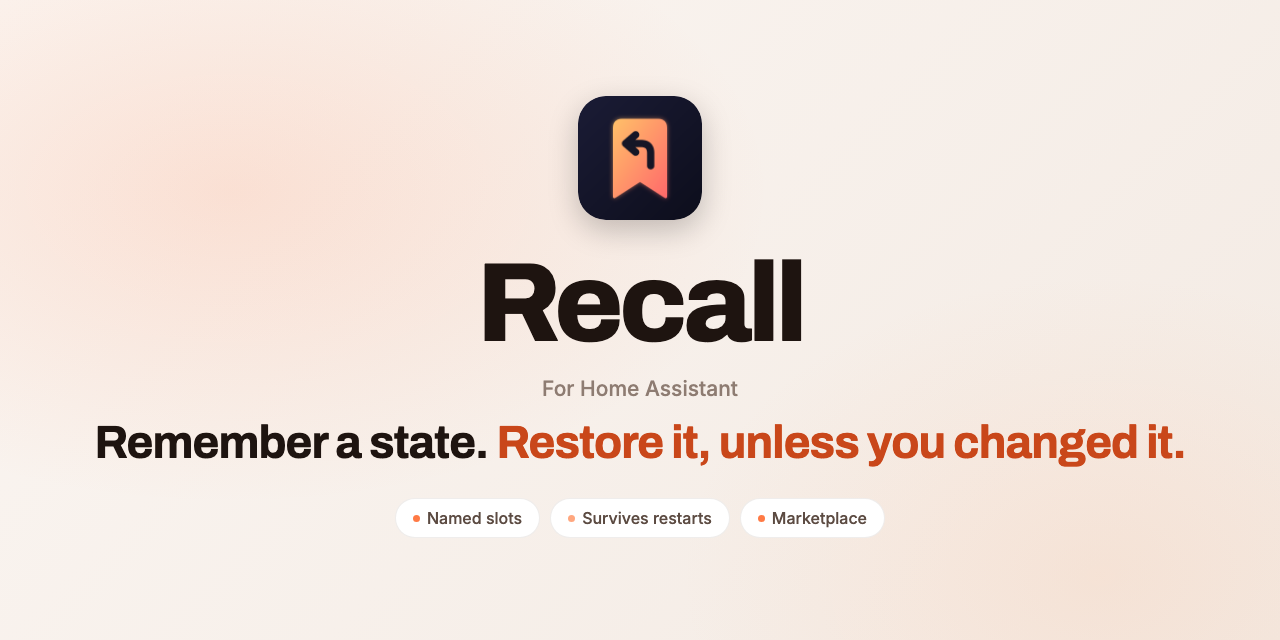
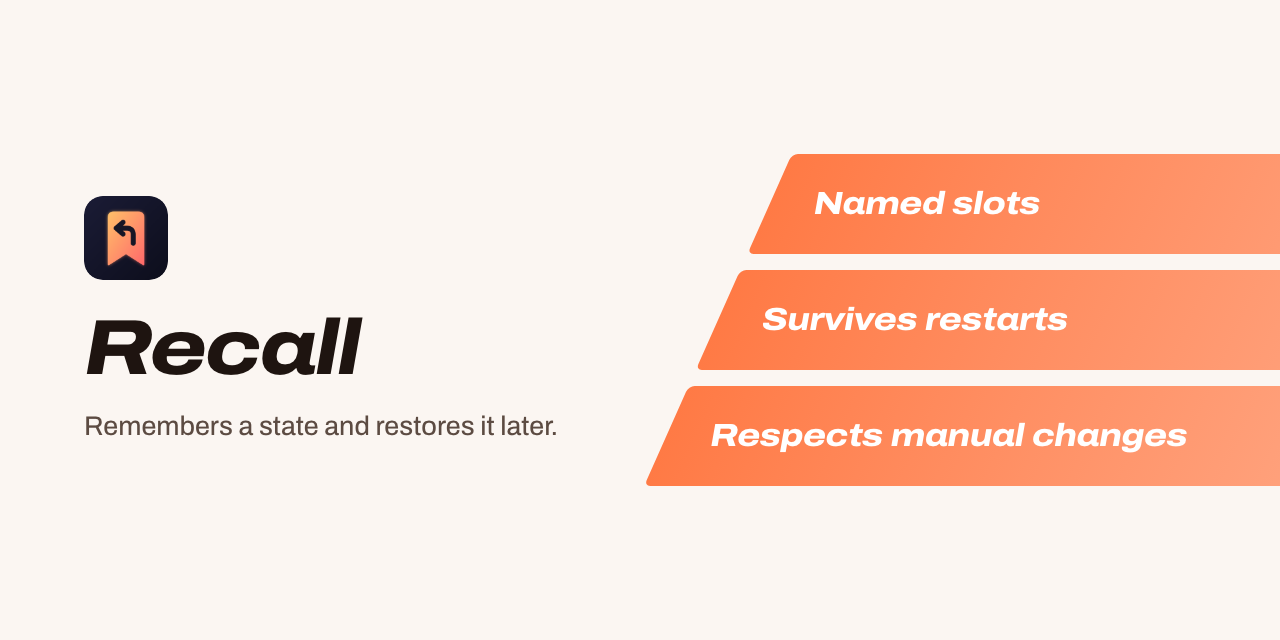
README and project page in the v2 design
Title banner with the lanes, Install and Set up as one Get started, shared
footer. The page loads theme v2 (Archivo from sh1ft-w.github.io), hero left
with the three key facts on the lanes.

Claude-Session: https://claude.ai/code/session_01TLmTtZLAvnS1BJ3w9tzxXq

diff --git a/docs/index.html b/docs/index.html
@@ -13,21 +13,18 @@
 <meta property="og:description" content="Remember a state, restore it later, unless someone changed it by hand.">
 <meta property="og:image" content="https://sh1ft-w.github.io/recall/images/readme-title-social.png">
 <link rel="icon" href="logo.png">
-<link rel="preconnect" href="https://fonts.googleapis.com">
-<link rel="preconnect" href="https://fonts.gstatic.com" crossorigin>
-<link href="https://fonts.googleapis.com/css2?family=Archivo:wght@600;700;800;900&family=Inter:wght@400;500;600&family=JetBrains+Mono:wght@400;500&display=swap" rel="stylesheet">
-<!-- Shared SH1FT-W design (tokens, glass navigation, light/dark, DE/EN, reveal) -->
-<link rel="stylesheet" href="https://sh1ft-w.github.io/theme/v1/theme.css">
-<script src="https://sh1ft-w.github.io/theme/v1/theme.js"></script>
+<!-- Shared SH1FT-W design, version 2 (tokens, Archivo, navigation, light/dark, DE/EN, the lanes) -->
+<link rel="stylesheet" href="https://sh1ft-w.github.io/theme/v2/theme.css">
+<script src="https://sh1ft-w.github.io/theme/v2/theme.js"></script>
 <style>
 /* Recall-Palette: warmes Weiß bei Tag, tiefes Braun bei Nacht, Akzent #FF7A45 */
 :root {
   --accent: #FF7A45; --accent-ink: #C9471A; --on-accent: #ffffff;
-  --sea: #FF7A45; --sea-tint: rgba(255,122,69,0.10); --sea-glow: rgba(255,122,69,0.30); --aqua: #FFA77F;
+  --sea: #FF7A45; --sea-tint: rgba(255,122,69,0.10); --aqua: #FFA77F;
   --ch-w: #8FA3B1; --ch-b: #2F7FD8; --ch-g: #2FA36A; --ch-r: #E0584A;
-  --font: "Inter", -apple-system, BlinkMacSystemFont, system-ui, sans-serif;
-  --display: "Archivo", "Inter", -apple-system, BlinkMacSystemFont, system-ui, sans-serif;
-  --mono: "JetBrains Mono", ui-monospace, "SF Mono", Menlo, monospace;
+  --font: "Archivo", -apple-system, BlinkMacSystemFont, system-ui, sans-serif;
+  --display: "Archivo", -apple-system, BlinkMacSystemFont, system-ui, sans-serif;
+  --mono: ui-monospace, "SF Mono", Menlo, monospace;
   --bg: #FBF6F2; --bg-2: #F3E8E0; --card: #FFFFFF; --card-2: #F8F0EA;
   --ink: #1E1410; --ink-2: #5C4B42; --ink-3: rgba(30,20,16,0.56);
   --line: rgba(50,25,15,0.11); --chip: rgba(50,25,15,0.06);
@@ -38,7 +35,7 @@
 }
 @media (prefers-color-scheme: dark) { :root:not([data-theme="light"]) {
   --accent: #FF7A45; --accent-ink: #FF9668; --on-accent: #ffffff;
-  --sea: #FF7A45; --sea-tint: rgba(255,122,69,0.14); --sea-glow: rgba(255,122,69,0.30);
+  --sea: #FF7A45; --sea-tint: rgba(255,122,69,0.14);
   --ch-w: #DCE6EC;
   --bg: #0C0907; --bg-2: #17110E; --card: #1E1612; --card-2: #271D18;
   --ink: #F6EFEA; --ink-2: rgba(228,214,205,0.84); --ink-3: rgba(228,214,205,0.54);
@@ -48,7 +45,7 @@
 } }
 :root[data-theme="dark"] {
   --accent: #FF7A45; --accent-ink: #FF9668; --on-accent: #ffffff;
-  --sea: #FF7A45; --sea-tint: rgba(255,122,69,0.14); --sea-glow: rgba(255,122,69,0.30);
+  --sea: #FF7A45; --sea-tint: rgba(255,122,69,0.14);
   --ch-w: #DCE6EC;
   --bg: #0C0907; --bg-2: #17110E; --card: #1E1612; --card-2: #271D18;
   --ink: #F6EFEA; --ink-2: rgba(228,214,205,0.84); --ink-3: rgba(228,214,205,0.54);
@@ -74,7 +71,7 @@ code, .k { font-family: var(--mono); font-variant-numeric: tabular-nums; }
 .btn {
   display: inline-flex; align-items: center; justify-content: center; gap: 8px; height: 48px; padding: 0 24px; border-radius: 999px;
   font-family: inherit; font-size: 15px; font-weight: 600; line-height: 1; background: var(--sea); color: var(--on-accent); border: 0; cursor: pointer;
-  box-shadow: 0 12px 28px -12px var(--sea-glow); transition: transform .2s ease, filter .2s ease;
+  transition: transform .2s ease, filter .2s ease;
 }
 .btn:hover { text-decoration: none; filter: brightness(1.1); transform: translateY(-1px); }
 .btn.ghost { background: var(--card); color: var(--ink); box-shadow: var(--shadow); }
@@ -98,9 +95,6 @@ section.tint { background: var(--bg-2); }
 
 /* Hero */
 .hero { padding: clamp(56px, 9vw, 112px) 0 clamp(64px, 8vw, 104px); text-align: center; overflow: hidden; }
-.hero .glow { position: absolute; inset: -20% -10% auto; height: 90%; pointer-events: none;
-  background: radial-gradient(40% 36% at 30% 30%, rgba(255,122,69,0.18), transparent 70%), radial-gradient(36% 34% at 72% 24%, rgba(200,70,30,0.12), transparent 70%);
-  filter: blur(50px); }
 .hero .wrap { position: relative; }
 .hero .lead { max-width: 660px; margin-left: auto; margin-right: auto; }
 .cta { display: flex; flex-wrap: wrap; gap: 12px; justify-content: center; margin-top: 34px; }
@@ -108,30 +102,6 @@ section.tint { background: var(--bg-2); }
 .pill { display: inline-flex; align-items: center; gap: 6px; padding: 5px 12px; border-radius: 999px; background: var(--card); box-shadow: var(--shadow); font-weight: 600; color: var(--ink-2); font-size: 13px; }
 .pill i { width: 7px; height: 7px; border-radius: 50%; background: var(--aqua); display: inline-block; }
 
-/* Bühne: stilisiertes Becken mit Lampe und Karten (bleibt in beiden Themes dunkel) */
-.stage { position: relative; margin: clamp(48px, 7vw, 84px) auto 0; max-width: 1100px; }
-.stage .photo { display: block; width: 100%; height: auto; aspect-ratio: 2 / 1; border-radius: var(--radius-lg); box-shadow: var(--shadow-lg); }
-.cards { display: grid; grid-template-columns: 1.1fr 1fr; gap: 16px; margin-top: clamp(28px, 4vw, 40px); text-align: left; }
-.hc { background: rgba(255,255,255,0.05); border: 1px solid rgba(255,255,255,0.08); border-radius: 22px; padding: 20px 22px; min-width: 0; }
-.hc .top { display: flex; align-items: center; gap: 12px; }
-.hc .ico { flex: none; width: 40px; height: 40px; border-radius: 50%; display: grid; place-items: center; background: rgba(61,139,255,0.20); color: #8AB8FF; }
-.hc .ico svg { width: 20px; height: 20px; }
-.hc .name { font-weight: 600; font-size: 15px; }
-.hc .state { font-size: 13px; color: #9fb2bf; }
-.hc .power { margin-left: auto; width: 42px; height: 24px; border-radius: 999px; background: #006FFF; position: relative; flex: none; }
-.hc .power::after { content: ""; position: absolute; right: 3px; top: 3px; width: 18px; height: 18px; border-radius: 50%; background: #fff; }
-.chs { display: grid; gap: 12px; margin-top: 18px; }
-.ch { display: grid; grid-template-columns: 64px 1fr 86px; align-items: center; gap: 12px; font: 500 13px/1 var(--mono); color: #9fb2bf; }
-.ch .track { height: 8px; border-radius: 4px; background: rgba(255,255,255,0.1); position: relative; }
-.ch .track i { position: absolute; inset: 0 auto 0 0; border-radius: 4px; }
-.ch b { font-weight: 500; text-align: right; color: #eaf2f7; white-space: nowrap; }
-.rows { display: grid; gap: 0; margin-top: 4px; }
-.rows div { display: flex; justify-content: space-between; gap: 12px; padding: 10px 0; border-top: 1px solid rgba(255,255,255,0.07); font-size: 14px; }
-.rows div:first-child { border-top: 0; }
-.rows span { color: #9fb2bf; min-width: 0; }
-.rows b { font-weight: 500; text-align: right; color: #eaf2f7; overflow-wrap: anywhere; }
-.rows b.hot { color: #8AB8FF; }
-.fict { margin-top: 16px; font-size: 12px; color: #7f939f; text-align: center; }
 
 /* Bento: Gerade neu */
 .bento { display: grid; grid-template-columns: repeat(12, 1fr); gap: 16px; }
@@ -263,6 +233,38 @@ footer .fine { flex-basis: 100%; line-height: 1.6; }
   .tbl td { border: 0; padding: 2px 0; }
   .tbl td:first-child { white-space: normal; }
 }
+
+/* ---- theme v2 ---- */
+:root { --lane-a: #C9471A; --lane-b: #FF7A45; --radius: 20px; --radius-lg: 28px; --max: 1200px; }
+body { font-family: var(--font); }
+h1 { font-size: clamp(44px, 6vw, 84px); line-height: 1; font-weight: 800; font-stretch: 118%; font-style: italic; letter-spacing: -0.025em; }
+h2 { font-size: clamp(30px, 3.8vw, 48px); line-height: 1.08; font-weight: 750; font-stretch: 112%; letter-spacing: -0.02em; }
+h3 { font-stretch: 106%; }
+h1 em, h2 em { color: inherit !important; font-style: inherit; }
+.center { text-align: left; } .center .lead { margin-left: 0; margin-right: 0; }
+.head { max-width: 50em; }
+.eyebrow { text-transform: none; letter-spacing: 0; font-size: 16px; font-weight: 650; margin-bottom: 12px; }
+.eyebrow::before { display: none; }
+.cap { text-align: left; }
+.btn { border-radius: 12px; }
+.btn.ghost { background: var(--chip); box-shadow: none; }
+.pill { box-shadow: none; background: var(--chip); border-radius: 8px; }
+.b, .tile, .panel, .prof, .tbl, .faq details, .flow .lane { box-shadow: none; border: 1px solid var(--line); }
+.b .tag, .tg, .tbl thead th, .tbl .grp td { text-transform: none; letter-spacing: 0; font-size: 13px; }
+.b .tag, .tg { border-radius: 6px; }
+.tile .ico, .shield .ico { border-radius: 10px; }
+.hero { text-align: left; padding: clamp(48px, 7vw, 96px) 0 clamp(56px, 7vw, 96px); overflow: hidden; }
+.hero .wrap { display: grid; grid-template-columns: minmax(0, 1.15fr) minmax(0, 1fr); gap: clamp(24px, 4vw, 64px); align-items: center; }
+.hero .mark { width: 64px; height: 64px; border-radius: 15px; margin-bottom: 26px; }
+.hero .lead { margin-left: 0; max-width: 34em; }
+.hero .cta, .hero .meta { justify-content: flex-start; }
+.hero .s-lanes { margin-right: calc(-1 * var(--gutter) - 14vw); }
+.s-track b { color: #fff; font: italic 800 clamp(20px, 2.5vw, 34px)/1 var(--font); font-stretch: 116%; letter-spacing: -0.015em; white-space: nowrap; }
+@media (max-width: 900px) { .hero .wrap { grid-template-columns: 1fr; } .hero .s-lanes { margin: 8px calc(-1 * var(--gutter) - 8vw) 0 44px; } }
+.hero h1 { font-size: clamp(32px, 4vw, 52px); }
+@media (max-width: 900px) { .nav-links { display: none; } .nav > .iconbtn { margin-left: auto; } .nav > .btn, .nav .btn { margin-left: 0; } }
+@media (max-width: 480px) { .nav { gap: 6px; } .nav > .btn.small { padding: 0 10px; } }
+@media (max-width: 760px) { .tbl td:first-child { white-space: normal; } }
 </style>
 </head>
 
@@ -287,25 +289,24 @@ footer .fine { flex-basis: 100%; line-height: 1.6; }
 </div>
 
 <section class="hero" id="top">
-  <div class="glow" aria-hidden="true"></div>
   <div class="wrap">
-    <p class="eyebrow reveal"><span class="en">For Home Assistant</span><span class="de">Für Home Assistant</span></p>
-    <h1 class="reveal d1"><span class="en">Remember a state.<br><em>Restore it, unless you changed it.</em></span><span class="de">Zustand merken.<br><em>Zurück, außer du hast verstellt.</em></span></h1>
-    <p class="lead reveal d2"><span class="en">Many automations change something for a while and put it back afterwards: <em>lights for a movie, blinds for the sun, the thermostat while a window is open, the speaker volume for an announcement</em>. Recall does that and <strong>notices when someone took over</strong>: what was moved by hand stays where it is. Named slots, survives restarts, a modern replacement for Saver.</span><span class="de">Viele Automationen verstellen etwas für eine Weile und stellen es danach zurück: <em>Licht für den Film, Jalousien gegen die Sonne, das Thermostat bei offenem Fenster, die Lautstärke für eine Durchsage</em>. Recall macht das und <strong>merkt, wenn jemand übernommen hat</strong>: Was von Hand verstellt wurde, bleibt, wo es ist. Benannte Slots, übersteht Neustarts, ein moderner Ersatz für Saver.</span></p>
-    <div class="cta reveal d3">
-      <a class="btn" href="#install"><span class="en">Install from the Marketplace</span><span class="de">Über den Marketplace installieren</span></a>
-      <a class="btn ghost" href="https://github.com/SH1FT-W/recall#readme"><span class="en">Read the README</span><span class="de">Zur Anleitung</span></a>
+    <div>
+      <img class="mark" src="logo.png" alt="" width="64" height="64">
+      <h1><span class="en">Remember a state.<br>Restore it, unless you changed it.</span><span class="de">Zustand merken.<br>Zurück, außer du hast verstellt.</span></h1>
+      <p class="lead reveal d2"><span class="en">Many automations change something for a while and put it back afterwards: <em>lights for a movie, blinds for the sun, the thermostat while a window is open, the speaker volume for an announcement</em>. Recall does that and <strong>notices when someone took over</strong>: what was moved by hand stays where it is. Named slots, survives restarts, a modern replacement for Saver.</span><span class="de">Viele Automationen verstellen etwas für eine Weile und stellen es danach zurück: <em>Licht für den Film, Jalousien gegen die Sonne, das Thermostat bei offenem Fenster, die Lautstärke für eine Durchsage</em>. Recall macht das und <strong>merkt, wenn jemand übernommen hat</strong>: Was von Hand verstellt wurde, bleibt, wo es ist. Benannte Slots, übersteht Neustarts, ein moderner Ersatz für Saver.</span></p>
+      <div class="cta reveal d3">
+        <a class="btn" href="#install"><span class="en">Install from the Marketplace</span><span class="de">Über den Marketplace installieren</span></a>
+        <a class="btn ghost" href="https://github.com/SH1FT-W/recall#readme"><span class="en">Read the README</span><span class="de">Zur Anleitung</span></a>
+      </div>
+      <p class="meta reveal d3">
+        <span class="pill"><i></i><span id="hl-version">Version 26.11.2</span></span>
+        <span class="en">Home Assistant 2026.9 or newer &middot; English and German &middot; Apache 2.0</span><span class="de">Home Assistant 2026.9 oder neuer &middot; Deutsch und Englisch &middot; Apache 2.0</span>
+      </p>
     </div>
-    <p class="meta reveal d3">
-      <span class="pill"><i></i><span id="hl-version">Version 26.11.2</span></span>
-      <span class="en">Home Assistant 2026.9 or newer &middot; English and German &middot; Apache 2.0</span><span class="de">Home Assistant 2026.9 oder neuer &middot; Deutsch und Englisch &middot; Apache 2.0</span>
-    </p>
-
-    <div class="stage reveal d3">
-      <picture>
-        <source media="(prefers-color-scheme: dark)" srcset="images/readme-title-dark.webp">
-        <img class="photo" src="images/readme-title-light.webp" width="2560" height="1280" alt="Recall: Remember a state. Restore it, unless you changed it.">
-      </picture>
+    <div class="s-lanes" aria-hidden="true">
+      <div class="s-lane"><div class="s-track"><b><span class="en">Named slots</span><span class="de">Benannte Slots</span></b></div></div>
+      <div class="s-lane"><div class="s-track"><b><span class="en">Survives restarts</span><span class="de">Übersteht Neustarts</span></b></div></div>
+      <div class="s-lane"><div class="s-track"><b><span class="en">Respects manual changes</span><span class="de">Achtet auf Handeingriffe</span></b></div></div>
     </div>
   </div>
 </section>

diff --git a/README.md b/README.md
@@ -2,14 +2,14 @@
 
 <picture>
   <source media="(prefers-color-scheme: dark)" srcset="docs/images/readme-title-dark.webp" />
-  <img src="docs/images/readme-title-light.webp" alt="Recall: Remember a state. Restore it, unless you changed it." />
+  <img src="docs/images/readme-title-light.webp" alt="Recall: remembers a state and restores it later. Named slots. Survives restarts. Respects manual changes." />
 </picture>
 
 [![Version](https://img.shields.io/badge/dynamic/json?url=https%3A%2F%2Fraw.githubusercontent.com%2FSH1FT-W%2Frecall%2Fmain%2Fcustom_components%2Frecall%2Fmanifest.json&query=%24.version&label=version&style=flat-square&color=FF7A45&labelColor=111111)](https://github.com/SH1FT-W/recall/releases/latest)
 [![Home Assistant](https://img.shields.io/badge/Home%20Assistant-2026.9%2B-FF7A45?style=flat-square&labelColor=111111&logo=homeassistant&logoColor=white)](https://www.home-assistant.io)
 [![Marketplace](https://img.shields.io/badge/Marketplace-default-FF7A45?style=flat-square&labelColor=111111)](https://hacs.xyz)
 
-<a href="https://sh1ft-w.github.io/recall"><b>Website</b></a>&emsp;<a href="#install">Install</a>&emsp;<a href="#actions">Actions</a>&emsp;<a href="#examples">Examples</a>&emsp;<a href="#from-saver">From Saver</a>&emsp;<a href="CHANGELOG.md">Changelog</a>
+<a href="https://sh1ft-w.github.io/recall"><b>Website</b></a>&emsp;<a href="#get-started">Get started</a>&emsp;<a href="#actions">Actions</a>&emsp;<a href="#examples">Examples</a>&emsp;<a href="CHANGELOG.md">Changelog</a>
 
 </div>
 
@@ -19,7 +19,7 @@ Many automations change something for a while and put it back afterwards: lights
 
 Recall replaces [Saver](https://github.com/PiotrMachowski/Home-Assistant-custom-components-Saver) but is an independent project with no code from it. It is used every day with lights and blinds; climate, fans, media players and the other domains are covered by the automated tests only.
 
-## Restore or skip
+## What you get
 
 What `recall.restore` does, depending on what happened since `recall.save`:
 
@@ -35,12 +35,15 @@ What `recall.restore` does, depending on what happened since `recall.save`:
 
 **New in 26.11:** `recall.create_scene` turns a slot into a scene, and a renamed entity keeps its remembered states. Every change is in the [changelog](CHANGELOG.md) (German).
 
-<a id="install"></a>
-## Install
+<a id="get-started"></a><a id="install"></a><a id="set-up"></a>
+## Get started
 
 [![Open in the Marketplace](https://my.home-assistant.io/badges/hacs_repository.svg)](https://my.home-assistant.io/redirect/hacs_repository/?owner=SH1FT-W&repository=recall&category=integration)
 
-Search for **Recall** under **Settings > Marketplace** (called HACS before Home Assistant 2026.11), download it and restart Home Assistant. Then add it under **Settings > Devices & services > Add integration > Recall**. No questions asked.
+1. **Install it.** Search for **Recall** under **Settings > Marketplace** (called HACS before Home Assistant 2026.11), download it and restart Home Assistant.
+2. **Add it** under **Settings > Devices & services > Add integration > Recall**. No questions asked.
+
+**Settings > Devices & services > Recall > Configure** holds the defaults (respect manual changes, forget afterwards, tolerance 3 %, calm time 15 s, expiry) and the list of remembered states, where you can forget slots without moving anything. Changes apply right away.
 
 <details>
 <summary>Install by hand</summary>
@@ -49,8 +52,6 @@ Search for **Recall** under **Settings > Marketplace** (called HACS before Home 
 2. Copy `custom_components/recall` into `/config/custom_components/` and restart Home Assistant.
 
 </details>
-
-**Settings > Devices & services > Recall > Configure** holds the defaults (respect manual changes, forget afterwards, tolerance 3 %, calm time 15 s, expiry) and the list of remembered states, where you can forget slots without moving anything. Changes apply right away.
 
 <a id="actions"></a>
 ## Actions
@@ -334,3 +335,11 @@ Test requirements: `pip install -r requirements_test.txt`. GitHub Actions runs t
 ## License
 
 [Apache License 2.0](LICENSE), Copyright 2026 SH1FT-W. Acknowledgements in [`NOTICE`](NOTICE).
+
+<br/>
+
+<div align="center">
+<a href="https://sh1ft-w.github.io"><img src="https://sh1ft-w.github.io/readme/footer.png" width="640" alt="All SH1FT-W projects"></a>
+<br/>
+<sub>More open source for Home Assistant and the Mac at <a href="https://sh1ft-w.github.io">sh1ft-w.github.io</a></sub>
+</div>

diff --git a/CLAUDE.md b/CLAUDE.md
@@ -40,10 +40,10 @@ andere Domänen nur in den Tests.
 - `create_scene` legt immer `scene.recall_<id>` an, der Slot bleibt.
 - Logo: Variante B „Lesezeichen“ in `brand/`; Quellen + Erzeuger in `docs/logo-varianten/`
   (`erzeugen.py` schreibt SVGs + `vergleich.html`, PNGs per Edge headless).
-- README-Bilder: Titelbild aus `docs/readme-images.json` mit `theme/v1/readme-images/render.mjs <repo>`
-  aus sh1ft-w.github.io: Titel als `docs/images/readme-title-{light,dark}.webp` (2560 × 1280, Fenster zeigt
-  `docs/images/title-shot-*.png`, den Funktionsblock der Projektseite mit 2× aufgenommen) plus `readme-title-social.png`
-  für die GitHub-Vorschau; README-Aufbau nach `repo-vorlagen/readme-muster.md`, ohne Kartentabellen. Die Projektseite zeigt das Titelbild im Hero.
+- README-Bilder aus `docs/readme-images.json` mit `theme/v2/readme-images/render.mjs <repo>` aus sh1ft-w.github.io:
+  Titel-Banner `docs/images/readme-title-{light,dark}.webp` (2560 × 880) plus `readme-title-social.png` (1280 × 640) für die
+  GitHub-Vorschau, aus `title.name`, `title.line` und drei `title.lanes`. README- und Seitenaufbau nach
+  `repo-vorlagen/readme-muster.md` (Design v2: Hero mit den drei Bahnen, kein Titelbild im Hero).
 
 ## Prüfen
 
